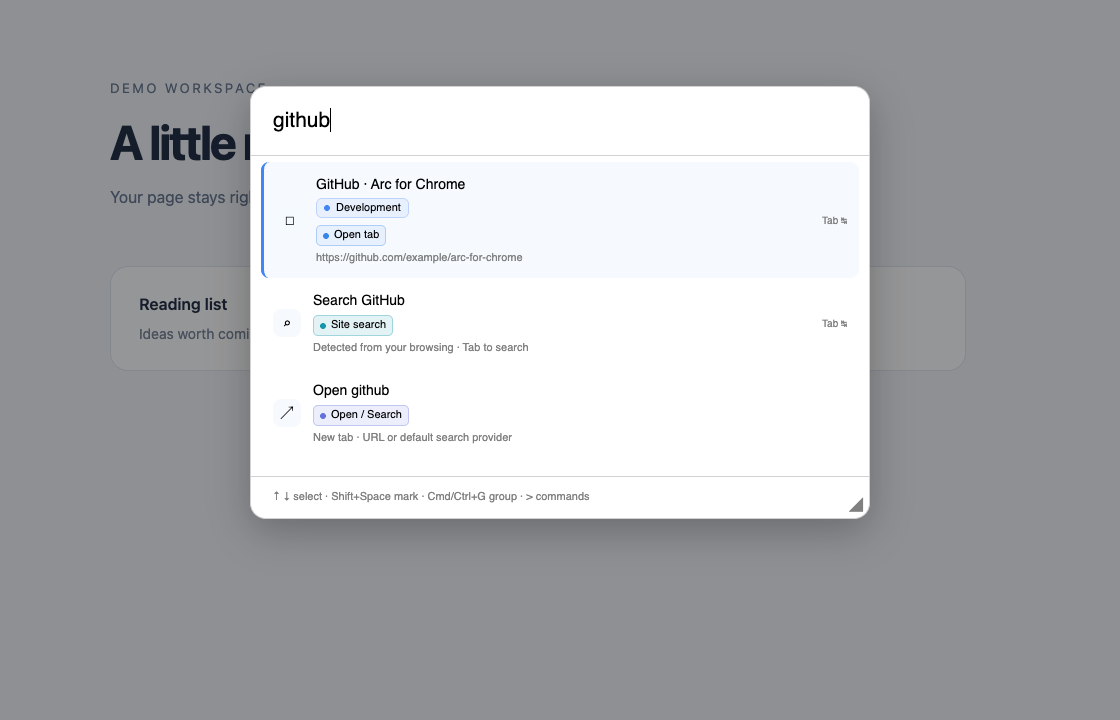
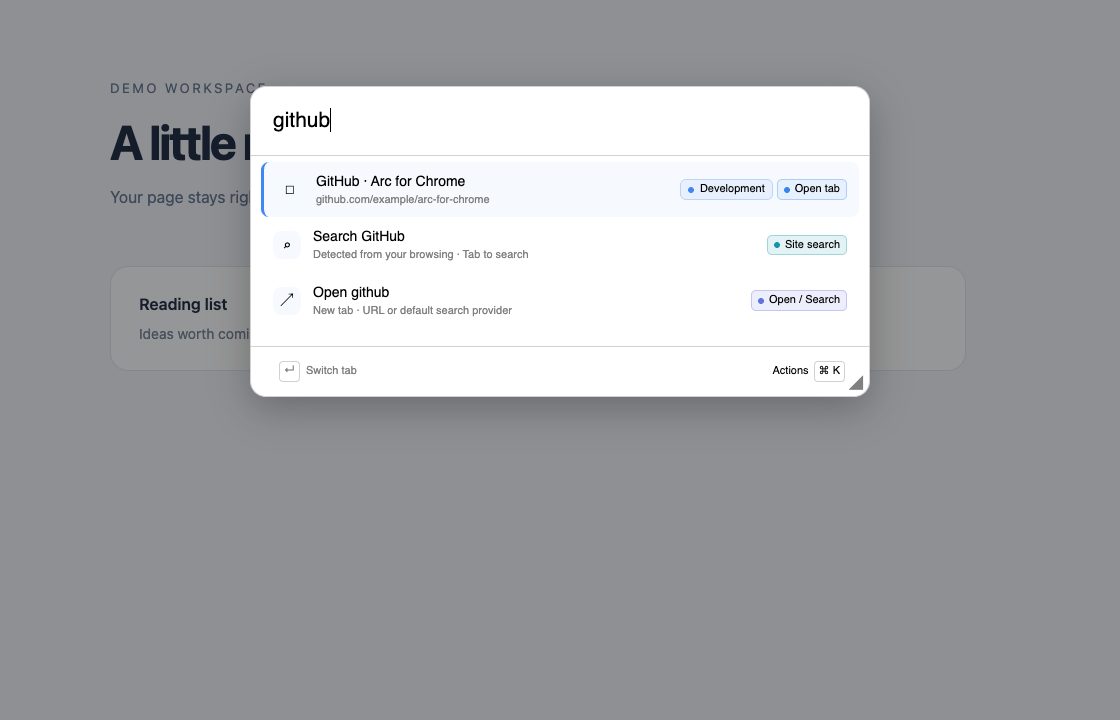
docs: demonstrate the expanded Spotlight launcher
Document contextual hotkeys, query redirect, quicklinks, calculator and cached icons in English and Russian. Add fictional reproducible screenshots and update architecture, privacy and manual checks. Verified local links, image metadata and visual captures.

diff --git a/scripts/build-readme-demo.py b/scripts/build-readme-demo.py
@@ -20,5 +20,5 @@ if (source / 'arc-spotlight-activity.png').exists():
     shutil.copyfile(source / 'arc-spotlight-activity.png', output / 'spotlight-activity.png')
 print(f'Wrote demo and light/dark captures to {output}')
 
-for name in ('selection', 'groups', 'bookmarks'):
+for name in ('selection', 'groups', 'bookmarks', 'actions', 'providers', 'calculator', 'quicklinks'):
     shutil.copyfile(source / f'arc-spotlight-{name}.png', output / f'spotlight-{name}.png')

diff --git a/README.md b/README.md
@@ -60,6 +60,7 @@ Chrome may keep an older key assignment or reject a conflicting binding. Open `c
 | Manage groups | **⌘⌥G** | **Ctrl+Alt+G** |
 | Save in a bookmark folder | **⌘D** | **Ctrl+D** |
 | Remove from a bookmark folder | **⌘⇧D** | **Ctrl+Shift+D** |
+| Actions for the selected result | **⌘K** | **Ctrl+K** |
 | Choose a result | **↑ / ↓** | **↑ / ↓** |
 | Open / run the selection | **Enter** | **Enter** |
 | Open in a background tab | **Shift+Enter** | **Shift+Enter** |
@@ -69,7 +70,7 @@ Chrome may keep an older key assignment or reject a conflicting binding. Open `c
 
 In Search, Enter activates an existing tab or opens a new one. In **Edit current URL**, Enter replaces the source page; submitting its unchanged URL reloads it. Navigation modifiers apply to URL/search results; commands and session restoration keep their explicit actions.
 
-**Prefixes replace mode controls:** `>` commands · `@` arrange tabs · `<` recently closed · `?` recover AI prompts. For example, `> settings` finds extension/browser settings commands and `> edit current URL` enters address editing without a global shortcut. Backspace on an empty scoped input returns to Search.
+**Prefixes replace mode controls:** `>` commands · `@` arrange tabs · `<` recently closed · `?` recover AI prompts · `$` quicklinks. For example, `> settings` finds extension/browser settings commands and `> edit current URL` enters address editing without a global shortcut. Backspace on an empty scoped input returns to Search.
 
 These action shortcuts work while Spotlight is open. For vertical tabs, use **Alt/Option+↑/↓**; add Shift for start/end. **`#Work`** chooses a group; **`*Work`** chooses a bookmark folder.
 
@@ -80,6 +81,36 @@ These action shortcuts work while Spotlight is open. For vertical tabs, use **Al
 - On a selected URL result, complete its address for editing without navigating.
 
 For ambiguous site matches, choose a site explicitly with the arrows. Repeating the Search shortcut closes the overlay. [Full keyboard guide →](docs/KEYBOARD_REMAPPING.md)
+
+## More from one search field
+
+Results use compact two-line rows: title and address on the left, source/group labels on the right. Chrome's cached site icons load separately without delaying suggestions; missing icons keep a generic symbol. With an empty query, sections surface open tabs, quicklinks, recent activity and frequent commands. Recent activity opens the journal rather than repeating an action. Command frequency comes from the existing bounded journal; with no journal data, starter commands are shown.
+
+### Actions without memorizing shortcuts
+
+Select a result and press **⌘/Ctrl+K**, or click **Actions** in the footer. Search that menu and press Enter. It offers only applicable operations: open/new/background, copy URL or calculation, move/duplicate a tab, group marked tabs, edit folder bookmarks, save/manage a quicklink, or redirect the query. Existing direct hotkeys remain available. **Esc** or the same action shortcut returns to the original query and selection. The footer shows the current primary action with keyboard keycaps; Tab/Shift+Tab reach Actions and the resize handle.
+
+### Keep a query, choose where it goes
+
+When no local page matches, Search offers **Google**, **ChatGPT** and **Google AI Mode** underneath the normal default-search action. For all providers and detected search sites, use **Actions → Search this query with…**, then filter by provider name. The prompt is retained separately from that filter; a recognized leading provider alias is removed when redirecting. Esc returns to the original query. Nothing is submitted until Enter. AI routes retain the existing recovery copy before navigation.
+
+### Named quicklinks
+
+Select a web page → **Actions → Save as quicklink…** → enter a name → Enter. Find it by name or URL in ordinary Search, or type **`$`** / **`$work`** to browse/filter quicklinks. **Manage quicklinks** is also a searchable command. Use Actions on a quicklink to rename or remove it. Saving the current page is available through **Save selected page as quicklink** in Commands.
+
+Quicklinks are local to this Chrome profile, separate from native bookmarks: at most **100**, names **1–80 characters**, HTTP(S) addresses without embedded credentials. They persist until explicitly removed; clearing the action journal does not delete them. They are not automatically synced.
+
+### Calculate without leaving the page
+
+Type **`1250 * 0.18`** → **225** → Enter copies the result and keeps Spotlight open. Supports parentheses, `+ - * / ^ %`, unary signs and `× ÷ −`; `%` is remainder. Powers associate right-to-left. Calculations use a bounded local parser without `eval`, round to 12 significant digits and do not provide currency/date/unit conversion. Invalid or non-finite expressions stay ordinary search input. No calculator history is stored.
+
+| Contextual actions | Choose a provider |
+| --- | --- |
+| ![Actions for a selected browser tab](docs/assets/spotlight-actions.png) | ![Search providers retain the original query](docs/assets/spotlight-providers.png) |
+
+| Local calculator | Named quicklinks |
+| --- | --- |
+| ![Arithmetic result ready to copy](docs/assets/spotlight-calculator.png) | ![Named local quicklinks](docs/assets/spotlight-quicklinks.png) |
 
 ## Search that gets out of your way
 
@@ -225,10 +256,11 @@ Suggestions are processed locally. There is **no telemetry, backend, online auto
 | `bookmarks` | Read suggestions and explicitly save/remove selected pages in a chosen folder |
 | `search` | Use Chrome’s chosen default provider |
 | `sessions` | List and restore recently closed tabs |
-| `storage` | Site templates/aliases, local action history and temporary AI prompt recovery |
+| `storage` | Site templates/aliases, local action history, named quicklinks and temporary AI prompt recovery |
 | `alarms` | Automatically expire action-history entries |
 | `tabGroups` | Read and update source-window group names, colors and state |
-| `clipboardWrite` | Copy the current URL on request; never read the clipboard |
+| `clipboardWrite` | Copy URLs or calculator results on request; never read the clipboard |
+| `favicon` | Read site icons from Chrome’s cache; no external favicon service |
 
 No permanent host access is requested. Automatically inferred site templates are not persisted; ordinary typed text is not saved while composing. Executed action metadata is stored locally with automatic limits; query/prompt text in that journal is opt-in. AI prompt recovery uses separate temporary session storage. [Security policy →](SECURITY.md)
 
@@ -254,5 +286,7 @@ Bug reports, clear reproduction steps and focused pull requests are welcome. See
 [User guide](docs/USER_GUIDE.md) · [Architecture](docs/ARCHITECTURE.md) · [Testing](docs/TESTING.md) · [Arc behavior audit](docs/ARC_COMMAND_BAR_AUDIT.md) · [Work log](docs/WORK_LOG.md)
 
 ---
+
+Interaction patterns also draw inspiration from [Vicinae](https://github.com/vicinaehq/vicinae); all code and bundled visuals here are our own.
 
 [MIT license](LICENSE) · Made for people who miss a good command bar.

diff --git a/docs/USER_GUIDE.md b/docs/USER_GUIDE.md
@@ -1,6 +1,6 @@
 # User guide
 
-An independent, Arc-inspired **Command Bar for Chrome**: local page suggestions, Site Search, browser actions and URL editing in one keyboard-driven overlay. Early MVP, v0.20.0. Not affiliated with Arc or The Browser Company.
+An independent, Arc-inspired **Command Bar for Chrome**: local page suggestions, Site Search, browser actions and URL editing in one keyboard-driven overlay. Early MVP, v0.21.0. Not affiliated with Arc or The Browser Company.
 
 ## Install / update
 
@@ -82,10 +82,11 @@ No telemetry, backend, online autocomplete, permanent host access or persistent 
 | `bookmarks` | Read suggestions and explicit folder-scoped bookmark edits |
 | `search` | Execute queries through Chrome's selected provider |
 | `sessions` | List and restore recently closed tabs |
-| `storage` | Site overrides/aliases, bounded action journal and temporary AI recovery |
+| `storage` | Site overrides/aliases, bounded action journal, local named quicklinks and temporary AI recovery |
 | `alarms` | Schedule history expiry while Chrome runs |
 | `tabGroups` | Group metadata, colors, titles and collapsed state |
-| `clipboardWrite` | Explicit Copy current URL action; clipboard contents are not read |
+| `clipboardWrite` | Explicit URL/calculation copying; clipboard contents are not read |
+| `favicon` | Cached Chrome site icons, without an external favicon service |
 
 No sidebar, spaces UI, global tab cycling, MRU tracking or numbered pin commands. Native Chrome pins/groups/tabs are retained. Session restoration uses Chrome's original session destination, which can belong to a different window. A failed default-provider query can leave its newly created blank tab; the original page is unaffected.
 
@@ -167,3 +168,16 @@ Use marked tabs or the highlighted/source tab. Cmd/Ctrl+D opens save-folder sele
 The complete path is shown (and available as a hover title). Root/managed folders are excluded. Saving canonicalizes HTTP(S)/known Chrome section URLs, rejects embedded credentials/unsupported schemes, deduplicates selected URLs and skips copies already directly in the destination without overwriting custom titles. Removal lists folders containing selected URLs and shows count; it removes all matching direct bookmark copies, not nested records, folders, unrelated pages or copies elsewhere. No selection action navigates or closes tabs. Native syncing may propagate changes.
 
 Mutation-time revalidation uses fresh tabs/tree/children; selected IDs must be distinct, current-window and bounded to 100. Extension-originated writes serialize to avoid own concurrent duplicate creation. Chrome provides no multi-record transaction: partial API failure reports the completed count and retains those changes. Retry refreshes state and skips successful additions. The footer reports success/skips and chosen path, and the palette stays open. Creating folders and arbitrary saved-bookmark editing are outside this feature. No new permission beyond the existing bookmarks grant.
+
+
+## Compact launcher actions v0.21
+
+Select a result → Cmd/Ctrl+K or Actions → filter/choose an operation → Enter. Escape restores the selected result and original query. This reuses direct group/bookmark hotkeys and marked tabs, with no permanent extra panel. The footer shows the applicable primary action and keyboard keycaps. Empty Search includes open tabs, quicklinks, recent action-journal entries and frequent/starter commands; clicking recent activity views the journal without replaying it.
+
+For another destination, use Actions → Search this query with…, filter the provider/site name, Enter. The outgoing text is separate from the filter. Recognized leading provider aliases are removed on redirect; cancel preserves the original input. Without local matches, Google/ChatGPT/Google AI Mode are also offered below default search. Existing inline aliases and recovery remain available.
+
+Quicklinks: select a web result → Actions → Save as quicklink… → name → Enter. Search saved names in ordinary Search or use $ / $work; Manage quicklinks is a command. Actions on a link offers rename/remove; Save selected page as quicklink in Commands uses the original page. Limits: 100 links, names of 1–80 characters, HTTP(S) without embedded credentials. Records persist locally until explicitly removed, independently of native bookmarks and action retention; no automatic sync.
+
+Calculator: 1250 * 0.18 → 225; Enter copies the result while keeping the overlay open. Arithmetic supports parentheses, + - * / ^ %, unary signs, × ÷ −, right-associative powers and 12-significant-digit formatting. % means remainder. No eval, network, calculator history or currency/date/unit conversion. Invalid expressions remain normal search input. URL/result copying reads no clipboard content.
+
+Site icons use Chrome's cached favicon endpoint and the new favicon permission, with generic fallback and no third-party icon service. They load separately from suggestions. Reload/re-enable the extension after updating if Chrome requests permission review. See README for current [workflow screenshots](../README.md#more-from-one-search-field).

diff --git a/docs/ARCHITECTURE.md b/docs/ARCHITECTURE.md
@@ -90,3 +90,19 @@ The serialized UI receives GROUP_COLORS and sourceTabId in context, retaining a 
 tab-bookmarks.js iteratively walks the fresh native tree for writable folder paths, skipping root and managed ancestry. selectedPages validates 1–100 source-window IDs, parses supported URLs and deduplicates by canonical destination. The picker returns folder IDs/paths and direct match counts; mutations re-fetch tree/children, skip existing additions and restrict removals to matching URL-bearing children. No removeTree/folder deletion/second bookmark store is used. A worker-local promise chain serializes extension writes; browser-native concurrent edits remain outside that queue. Partial errors report completed operations without rollback.
 
 The UI reuses marked selection, freezes bookmarkTargetIds, and tracks add/remove independently from group targets. Mode bookmark-folders contains explicit action-labelled paths; Enter sends palette:bookmark and never generic navigation. Switching bookmark chords preserves targets. Successful mutations clear marks, return to Search and expose a footer notice. Input/new scope/marking clears stale notices. All mutations use the existing sender/window validation and journal operation/count labels. Existing bookmark permission now includes explicitly invoked writes.
+
+## Compact launcher workflows (0.21)
+
+The palette keeps one list and input. Source/group badges live in right-side metadata; addresses are shown without the protocol while full URLs remain in tooltips and navigation data. Empty Search sections contain open tabs, named quicklinks, recent journal entries (view history, never replay), and command frequency derived from the existing bounded journal. With no recorded command data, starter commands are labelled Commands rather than Frequent commands.
+
+A local action descriptor table supplies group/bookmark hotkeys and searchable contextual action rows. Cmd/Ctrl+K freezes the chosen result and marked tab IDs, remembers mode/query/order source, and enters the Actions scope. Esc restores the result identity and query, including after asynchronous suggestions. Enter remains the primary action. The footer displays primary-action keycaps and a keyboard-accessible Actions button; drag begins only outside buttons. Focus cycles through input, Actions and resize. Mode/dismissal revisions guard asynchronous completion. No persistent side panel or mode selector was introduced.
+
+Providers scope freezes the outgoing query independently of its provider-name filter. Redirect strips a recognized leading provider alias; cancel returns to the previous query. Google/ChatGPT/Google AI Mode are fallback rows only without matching local pages/calculations. Every provider action uses the existing worker validation, single encoding and AI-recovery-before-navigation path.
+
+calculator.js is a bounded arithmetic parser without dynamic code execution, functions or network requests. It rejects non-finite/incomplete results and ISO dates, supports precedence/right-associative powers/unary signs/remainder, and formats 12 significant digits. Only the result is copied on explicit action; nothing is stored as calculator history. The browser harness stubs clipboard writing in the frame rather than touching the OS clipboard.
+
+quicklinks.js stores independent quicklink:UUID records in storage.local, separate from bookmarks/history, with serialized writes and a 100-entry cap. Name/URL/id validation limits writes to named HTTP(S) links without credentials. Creation from an open tab resolves its current source-window URL in the worker; rename uses an existing record id, removal cannot target unrelated storage. Ordinary matching merges quicklink metadata into a matching URL result when available, while $ and Manage quicklinks offer the explicit list. Links are local and persist until removed; activity cleanup does not own them.
+
+favicons.js reads only Chrome's extension-origin _favicon endpoint with the favicon permission. It strips paths/queries to the origin, validates PNG responses and bounds request count/image bytes/time/cache entries. The worker returns data PNGs, so web-accessible extension resources and host grants are unnecessary. UI icons load after rendering, keep the selection click control and degrade to generic icons. Worker/UI caches are memory-only and bounded; no external favicon provider is contacted. See Chrome's official favicon documentation: https://developer.chrome.com/docs/extensions/how-to/ui/favicons.
+
+The interactions were informed by Vicinae's publicly documented launcher patterns. No Vicinae source, screenshots, icons or other assets are distributed here; the project retains its original MIT implementation.

diff --git a/docs/TESTING.md b/docs/TESTING.md
@@ -129,3 +129,9 @@ Unit regression verifies Arrange includes actual group name/color while preservi
 Unit/service checks cover full folder paths, managed/root exclusion, source-window IDs, add deduplication, scoped direct-child removal preserving other folders, partial-error progress, own concurrent-save serialization and sender validation. The browser harness verifies marked multi-tab save, Cmd/Ctrl chords, removal, * prefix, command entry, result notices and host-key isolation with mocked Chrome APIs.
 
 Installed smoke checklist: save two marked tabs in a chosen nested folder, repeat and verify no new copies/title overwrite. Save copies elsewhere, remove from the original folder and confirm unrelated/cross-folder/subfolder entries survive. Check removal counts, empty matches, read-only managed folders, account/local roots, stale source tabs/folders and unsupported URLs. Switch add/remove while the picker is open and confirm target tabs remain the same. Test normal overlay/protected popup and actual shortcut interception, using * or commands if needed. No new permission should be requested. Confirm journal metadata and native Chrome sync behavior without committing personal bookmark fixtures.
+
+## Launcher workflows v0.21
+
+Unit coverage includes arithmetic precedence/unary/powers/invalid inputs and finite formatting, quicklink create/search/rename/remove, unsafe URLs/ids/names/cap and unrelated storage preservation, source-window validation, recent-action listing without replay and Chrome-local icon fetching/caching/failure/response limits. All modules are syntax-checked. The disposable Chrome harness exercises contextual actions for the frozen selected/marked tabs, keyboard return/empty action filters, original query preservation when changing/cancelling providers, leading alias removal, quicklink name/id save/rename/remove, clipboard-stubbed calculator copy through primary/contextual actions, favicon decoration and existing keyboard/geometry/group/bookmark scenarios. Captures use fictional tabs and mocked APIs, not personal browser data.
+
+Installed smoke checklist: reload v0.21 and review/re-enable the favicon permission if Chrome requests it. On a normal page and protected-page popup, verify real cached icons (including missing/offline icons), default/light/dark/forced colors and narrow/resized views. Use Cmd/Ctrl+K and footer button via mouse/Tab, Escape return, multi-tab group/bookmark actions and repeated direct moves. Save a quicklink, reload/restart, search/rename/remove it and confirm native bookmarks are independent; clearing the journal must retain it. Choose every builtin/custom/detected provider and cancel a provider filter without losing the query; check AI recovery on navigation failure. Verify actual clipboard writes for URL/calculation (the automated test does not write the OS clipboard). Confirm initial command/recent sections follow journal settings, entries only open the journal and no action is replayed. No remote AI login/prefill or native favicon-service integration is claimed from mocked tests.

diff --git a/docs/WORK_LOG.md b/docs/WORK_LOG.md
@@ -228,3 +228,5 @@ Each commit body should state its rationale and the checks actually run. Publish
 120. Completed the 0.21 launcher UI using a shared contextual-action descriptor table for existing group/bookmark hotkeys and Cmd/Ctrl+K actions. Added frozen result/mark targets, filtered action scopes, return to query/selection, selected-tab duplicate, query-preserving provider selection/cancel and alias-stripped redirect through existing AI recovery. Added quicklink naming/rename/remove and $ listing, calculator copy that stays open, compact two-line result/metadata layout, contextual platform keycaps and initial open-tab/quicklink/recent-action/frequent-command sections. Recent actions only open the journal. Added Chrome-local favicon fetching with bounded memory caches/PNG validation/timeout and favicon permission, asynchronous UI decoration and generic/selection fallback; no host/WAR grants or external icon provider. Fixed new focus-cycle regression, frame clipboard context, returning from empty action filters and calculator actions, duplicate selection markers, provider/name cancellation and stale mutation completions. Validation: 108 unit tests/syntax checks passed; complete disposable Chrome regression passed with API/clipboard stubs, including preserved selections/multi-target bookmarks, save/rename/remove link IDs, default/fallback/AI redirect/cancel, calculator/contextual copying and favicon rendering. Installed native API/favicon/clipboard and remote AI login smoke checks remain manual. No push.
 
 121. Final launcher review added a guard against treating the Commands prefix as outgoing search text, accurate Commands vs Frequent commands starter labels, and full restoration of tab-placement/list/input context when a primary contextual action fails and is retried. Added source-window duplicate and starter-label unit assertions plus browser command-prefix and contextual move-failure/retry checks. Current unit suite: 109 tests passing; syntax/diff checks pass. Updated documentation covers cancellation, journal-only recent rows, local quicklink persistence, calculator precision/remainder limits and cached favicon permission. No push.
+
+122. Updated English/Russian README with the new shortcuts, action/provider/quicklink/calculator scenarios, storage/precision/permission limits and four fresh workflow screenshots. Updated user, keyboard, architecture and installed-test guides; credited Vicinae as interaction inspiration without bundling its GPL code/assets. Regenerated the original fictional light/dark/GIF/group/bookmark media from the actual UI in a disposable profile. Visually checked Actions, provider list, compact marked rows, quicklinks and calculator; local documentation links and screenshot EXIF/author/comment checks passed. Full final Chrome regression passed; no real profile/clipboard was used and no push performed.

diff --git a/docs/KEYBOARD_REMAPPING.md b/docs/KEYBOARD_REMAPPING.md
@@ -39,3 +39,9 @@ Prefixes from Search: `>` commands, `@` arrange tabs, `<` recently closed. The r
 0.19 groups: Shift+Space marks the highlighted open tab (or click its square); Cmd/Ctrl+G opens create/add with marked tabs, otherwise the highlighted/source tab. Type a name + Enter for a new group or ↓ choose an existing one. #name is an alternate picker prefix. Cmd/Ctrl+Shift+G removes selected tabs from groups. Cmd/Ctrl+Alt+G opens Manage tab groups, also available through >. Search+Esc clears marks before closing. Group operations keep the palette open. No new browser-global binding.
 
 0.20 bookmarks: Cmd/Ctrl+D selects a save folder; Cmd/Ctrl+Shift+D selects a removal folder. The same marked tabs are used, otherwise highlighted/source tab. *path opens save selection; > Bookmark selected tabs / > Remove selected bookmarks are fallback commands. Type folder name/path, arrows choose, Enter applies to that folder, Esc returns. Chrome may intercept native bookmark chords in some contexts; prefix/commands do not require global reassignment. The palette stays open with a result notice.
+
+## Launcher actions v0.21
+
+Inside Spotlight, Cmd/Ctrl+K toggles the Actions scope for the selected result (and current marks). Filter action titles, arrows choose, Enter runs; Escape returns to the original query/selection. Direct G/D group/bookmark chords use the same action definitions and remain available. Tab/Shift+Tab cycle input → Actions → resize; Shift+Tab from input still reaches resize directly. The footer uses platform modifier keycaps and the selected primary action.
+
+$ opens named quicklinks; $work filters them. Manage quicklinks and Save selected page as quicklink are searchable commands. Actions offers save/rename/remove as applicable. Name entry uses Enter save and Esc cancel. Type 1250 * 0.18 and Enter to copy 225 without dismissing Spotlight. For query redirection, Actions → Search this query with… → filter provider name → Enter; Escape preserves the previous query. Global Chrome shortcut assignment remains unchanged.

diff --git a/docs/assets/README.md b/docs/assets/README.md
@@ -15,3 +15,5 @@ Set `CHROME_BINARY` if Chrome is not installed at the standard macOS path. The c
 The activity-history preview uses two fictional action records. The current GIF includes inline shortcut + query; no live prompt is sent during capture.
 
 The selection, group picker and bookmark-folder picker PNGs show the current multi-tab workflow, captured with the same fictional fixtures. Their browser API responses are stubbed; the displayed UI and keyboard handling are the extension’s real code.
+
+Version 0.21 adds contextual Actions, provider redirection, quicklinks and calculator captures. These are real UI states with fictional data and stubbed browser services; no remote prompt is submitted and automated clipboard tests use a stub. The provider example includes builtins and detected site scopes.
